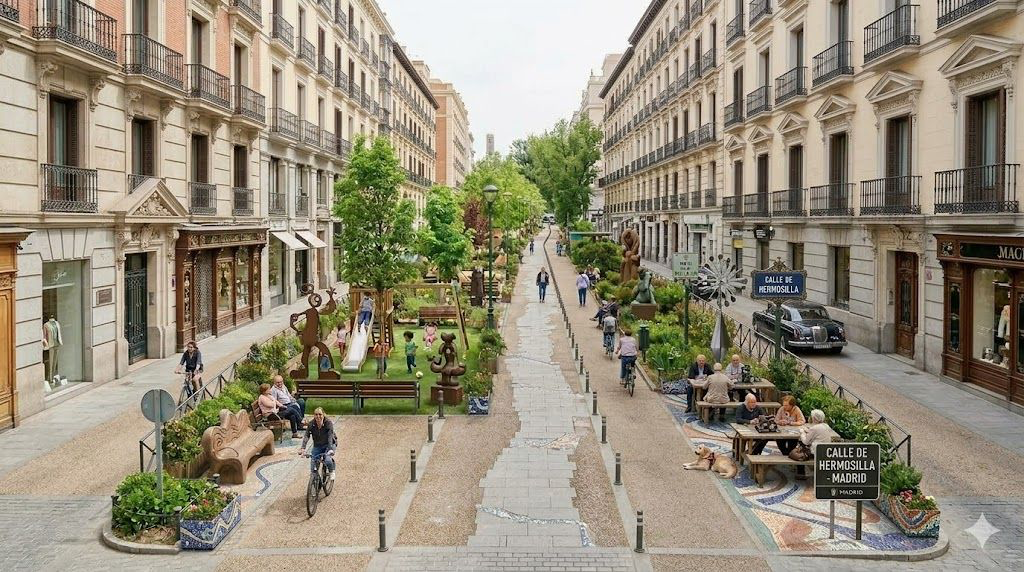
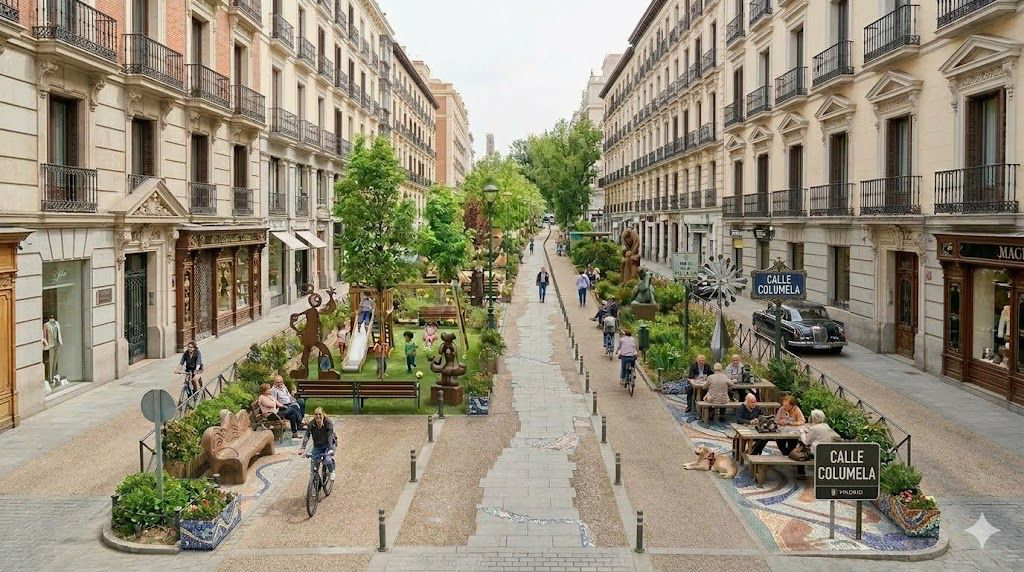
redesigning

diff --git a/js/app.js b/js/app.js
@@ -58,6 +58,106 @@ const locations = [
       "Cleaner air along one of the district's main avenues."
     ],
     images: ["calledevelazquez.png"]
+  },
+  {
+    id: "serrano",
+    name: "Calle de Serrano",
+    subtitle: "Green Commercial Corridor",
+    lat: 40.4280,
+    lng: -3.6865,
+    summary:
+      "Salamanca's flagship shopping avenue transformed into a greener, pedestrian-friendly corridor with wider sidewalks, shaded seating and protected cycling.",
+    changes: [
+      "One vehicle lane removed and replaced with a multi-use urban corridor.",
+      "Continuous tree cover and green infrastructure along the avenue.",
+      "Shaded seating areas and small exercise spaces for elderly residents."
+    ],
+    benefits: [
+      "A stronger retail environment with more foot traffic.",
+      "Improved walking experience for residents and visitors.",
+      "Cooler, greener microclimate during summer months."
+    ],
+    images: ["calledeserrano.png"]
+  },
+  {
+    id: "principe-de-vergara",
+    name: "Príncipe de Vergara",
+    subtitle: "Central Public Corridor",
+    lat: 40.4310,
+    lng: -3.6755,
+    summary:
+      "Príncipe de Vergara reorganized with a central public corridor featuring vegetation, exercise areas and cycling infrastructure, while keeping traffic lanes on both sides.",
+    changes: [
+      "Central corridor created with vegetation, pedestrian resting areas and cycling lanes.",
+      "Traffic lanes maintained on both sides for vehicle circulation.",
+      "New exercise and recreation areas integrated into the central strip."
+    ],
+    benefits: [
+      "A new linear public space for residents to walk, rest and exercise.",
+      "Improved cycling connections through the district.",
+      "Better balance between vehicle circulation and public life."
+    ],
+    images: ["calledeprincipedevergara.png"]
+  },
+  {
+    id: "columela",
+    name: "Calle de Columela",
+    subtitle: "Neighborhood Living Street",
+    lat: 40.4240,
+    lng: -3.6815,
+    summary:
+      "A quieter residential street with traffic calming, expanded sidewalks and new greenery, designed to prioritize families and local life.",
+    changes: [
+      "One parking row replaced with trees, planters and wider pedestrian space.",
+      "Traffic calming measures including lower speed limits.",
+      "New benches and resting areas for residents."
+    ],
+    benefits: [
+      "A calmer, greener street for everyday life.",
+      "Safer environment for children and elderly residents.",
+      "Stronger sense of neighborhood identity."
+    ],
+    images: ["calledecolumela.png"]
+  },
+  {
+    id: "manuel-becerra",
+    name: "Plaza Manuel Becerra",
+    subtitle: "Innovation Roundabout",
+    lat: 40.4285,
+    lng: -3.6690,
+    summary:
+      "The Manuel Becerra roundabout reimagined as a mini urban park dedicated to innovation, with green infrastructure, public seating and space for exhibitions and events.",
+    changes: [
+      "Roundabout interior redesigned as an accessible green public space.",
+      "Tensile canopy structures providing shade and visual identity.",
+      "Flexible event space for startup exhibitions and community gatherings."
+    ],
+    benefits: [
+      "A new landmark for Salamanca connecting urban life with innovation.",
+      "More green space and shade in a high-traffic area.",
+      "A destination that attracts visitors and activates the surrounding streets."
+    ],
+    images: ["roundabouts.png"]
+  },
+  {
+    id: "marques-de-salamanca",
+    name: "Plaza Marqués de Salamanca",
+    subtitle: "Innovation Roundabout",
+    lat: 40.4295,
+    lng: -3.6815,
+    summary:
+      "The Plaza del Marqués de Salamanca transformed into an urban innovation park with greenery, flexible event space and community gathering areas at the heart of the district.",
+    changes: [
+      "Roundabout center converted into a landscaped public space.",
+      "New seating, green infrastructure and pedestrian pathways.",
+      "Space for temporary installations, markets and public events."
+    ],
+    benefits: [
+      "A symbolic public space at the heart of the Salamanca district.",
+      "Increased social interaction and community identity.",
+      "A showcase for Madrid's commitment to urban innovation."
+    ],
+    images: ["roundabouts.png"]
   }
 ];
 
@@ -69,7 +169,7 @@ function initMap() {
   if (!el) return;
 
   map = L.map(el, { zoomControl: false, scrollWheelZoom: true })
-    .setView([40.4260, -3.6800], 15);
+    .setView([40.4275, -3.6785], 15);
 
   L.control.zoom({ position: "bottomright" }).addTo(map);
 
@@ -110,6 +210,11 @@ function initMap() {
       openPanel(loc);
     });
   });
+
+  if (markers.length) {
+    const bounds = markers.map((m) => [m.loc.lat, m.loc.lng]);
+    map.fitBounds(bounds, { padding: [40, 40], maxZoom: 15 });
+  }
 
   map.on("click", (e) => {
     if (e.originalEvent && e.originalEvent.target.closest(".marker-dot")) return;
